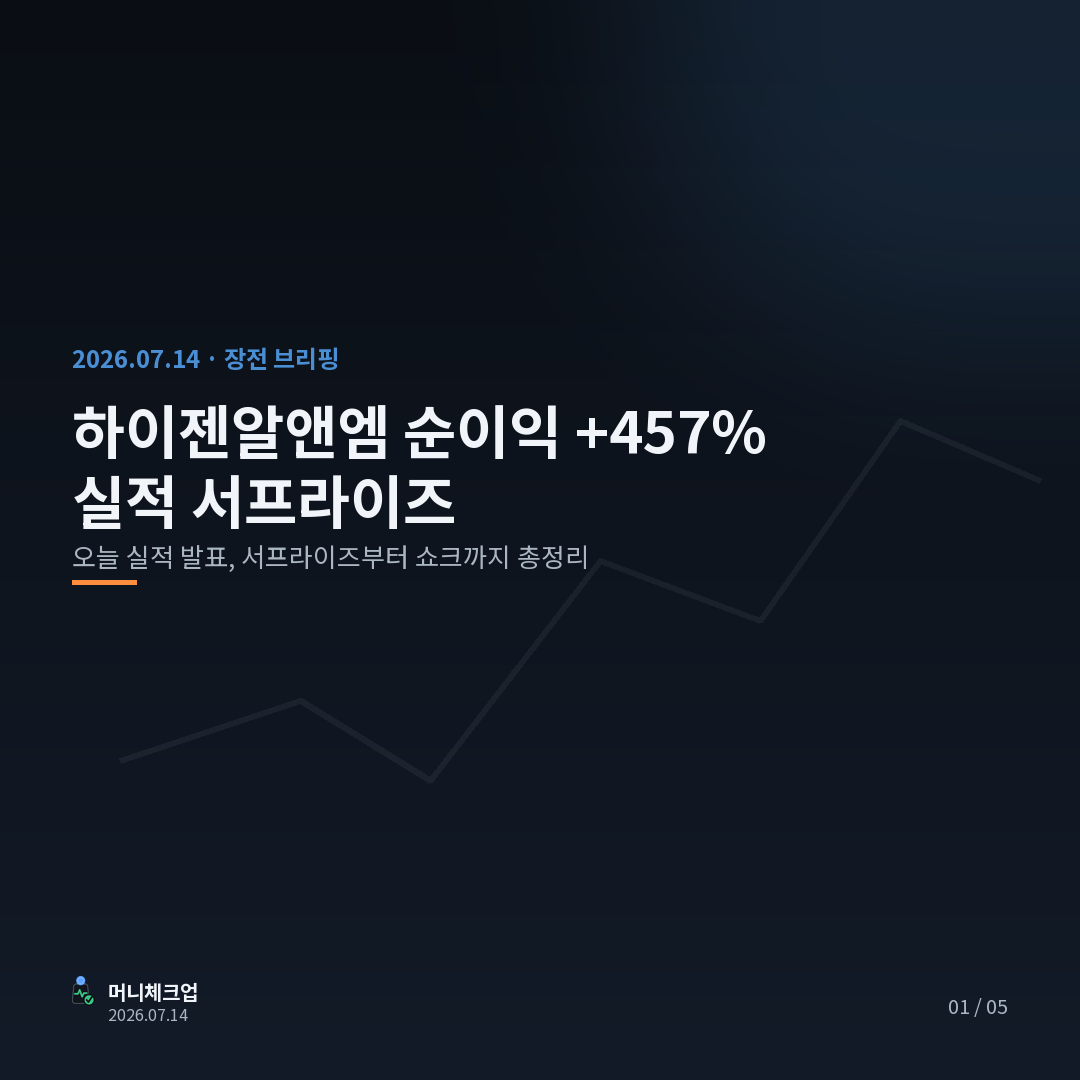
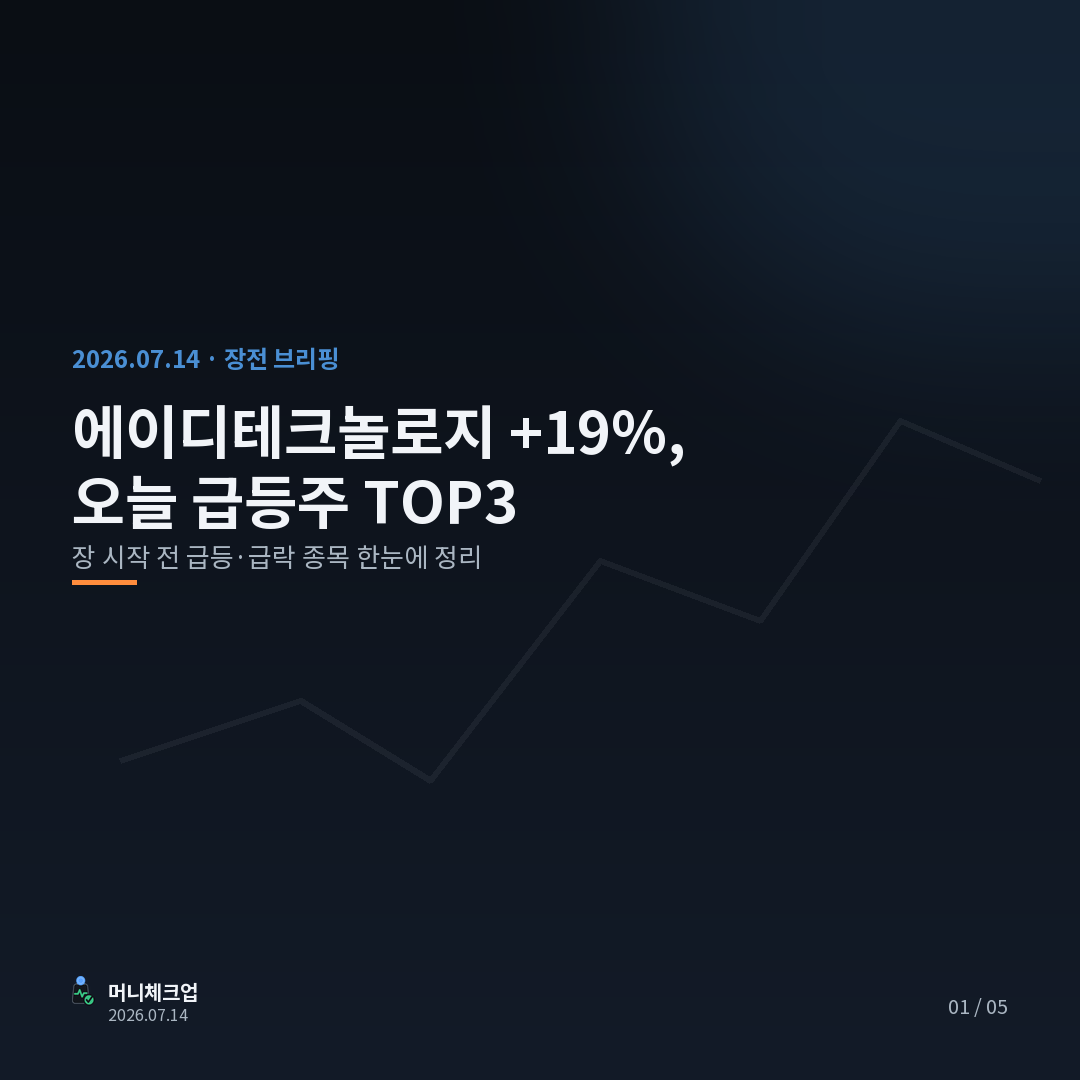
Add KOSPI/KOSDAQ/FX-move and rebound/correction cover headlines
Per feedback: earnings-based hooks can be stale (up to 30 days old now),
while an index or FX move is today's own news - worth featuring more
readily. Added:
- kospi_move / fx_move templates, gated on a minimum move size so
  ordinary days don't trigger them, with impact multipliers tuned so
  a real crash-level move can outrank even a big single-stock earnings
  surprise (which is now capped at 80 impact so one extreme % doesn't
  automatically dominate every day).
- rebound / correction templates: detect N+ consecutive down days
  flipping positive today (rebound) or N+ up days flipping negative
  today (correction), using new app.py::_kr_index_streak() (daily
  closes via market_indices.fetch_history).
- Also fixed a leftover "anomalies[:3]" cap in _blog_draft_data()'s
  return statement that was silently undoing the earlier fix to always
  show all high-severity (red) flags.

Changed region(s): [[0.0611, 0.3667, 0.7333, 0.55]]

diff --git a/card_templates.py b/card_templates.py
@@ -30,13 +30,16 @@ def _t_gainer_pct(data):
 
 def _t_earnings_extreme(data):
     """실적 중 순이익 증감률(ni_yoy)이 가장 극단적인(서프라이즈든 쇼크든) 1건을 헤드라인에.
-    +457% 같은 압도적인 숫자가 있는데 earnings_split(건수 요약)이 뽑혀서 묻히는 걸 방지."""
+    +457% 같은 압도적인 숫자가 있는데 earnings_split(건수 요약)이 뽑혀서 묻히는 걸 방지.
+    임팩트는 80에서 상한(실적은 최근 1개월 내 '과거' 공시라, 코스피 폭락처럼 '오늘'
+    일어난 시장 전체 이슈보다 과하게 세게 잡히면 안 돼서 — 퍼센트가 아무리 커도
+    개별종목 실적 하나가 시장 급락보다 항상 이기는 건 부자연스러움)."""
     cands = [e for e in data["earnings"] if e.get("ni_yoy") is not None]
     top = max(cands, key=lambda e: abs(e["ni_yoy"]))
     sign = "+" if top["ni_yoy"] >= 0 else ""
     word = "실적 서프라이즈" if top["ni_yoy"] >= 0 else "어닝쇼크"
     return ([f"{top['name']} 순이익 {sign}{top['ni_yoy']:.0f}%", word],
-            "오늘 실적 발표, 서프라이즈부터 쇼크까지 총정리", abs(top["ni_yoy"]))
+            "오늘 실적 발표, 서프라이즈부터 쇼크까지 총정리", min(abs(top["ni_yoy"]), 80))
 
 
 def _t_earnings_split(data):
@@ -68,6 +71,78 @@ def _t_us_market(data):
             "장 시작 전 5분, 미국장·환율 체크", 6)
 
 
+KOSPI_MOVE_MIN = 1.0   # 이 이상 움직여야 후보에 듦(평범한 ±0.수%는 아예 후보 제외)
+FX_MOVE_MIN = 0.5
+
+
+def _t_kospi_move(data):
+    """코스피/코스닥 당일 등락 — 실적(분기 전 데이터)보다 훨씬 시의성 있는 '오늘'
+    소식이라, 크게 흔들린 날엔 다른 템플릿보다 우선 뽑히도록 임팩트에 배율(18배)을
+    준다. _eligible()에서 KOSPI_MOVE_MIN 이상일 때만 후보로 들어오므로, 사소한
+    변동에는 아예 뽑히지 않고(다른 템플릿에 자리를 내줌) 진짜 급등락일 때만 경쟁."""
+    ix = data["us_indices"]
+    cands = [(ix[k]["name"], ix[k]["chg_pct"]) for k in ("kospi", "kosdaq")
+             if ix.get(k) and ix[k].get("chg_pct") is not None]
+    name, pct = max(cands, key=lambda c: abs(c[1]))
+    mood = "급등" if pct >= 0 else "급락"
+    sign = "+" if pct >= 0 else ""
+    return ([f"{name} 오늘 {sign}{pct:.1f}%", f"{mood}, 무슨 일이?"],
+            "오늘 국내 증시 흐름 한눈에 정리", abs(pct) * 30)
+
+
+def _t_fx_move(data):
+    """원달러 환율 급변 — 이것도 '오늘' 소식이라 실적류보다 우선순위를 높게(28배).
+    FX_MOVE_MIN 미만이면 애초에 후보로 안 들어옴."""
+    usd = data["us_indices"]["usdkrw"]
+    pct = usd["chg_pct"]
+    mood = "급등" if pct >= 0 else "급락"
+    sign = "+" if pct >= 0 else ""
+    return ([f"원달러 환율 오늘 {sign}{pct:.1f}%", mood],
+            f"{usd['price']:,.1f}원 — 오늘 환율·증시 체크", abs(pct) * 35)
+
+
+def _detect_trend(data):
+    """kr_trend(app.py::_kr_index_streak 결과)에서 '며칠 하락 끝에 반등' /
+    '상승 흐름 속 오늘 조정' 패턴을 찾는다. returns의 마지막 값이 오늘, 그 앞 4개가
+    최근 4거래일. 오늘이 그 앞 연속 흐름과 반대 방향이고 그 연속이 2일 이상이면 감지.
+    코스피·코스닥 둘 다 감지되면 연속일수가 더 긴 쪽을 우선. 없으면 None."""
+    best = None
+    for key in ("kospi", "kosdaq"):
+        t = (data.get("kr_trend") or {}).get(key)
+        if not t or len(t["returns"]) < 5:
+            continue
+        today = t["returns"][-1]
+        prior = t["returns"][:-1]
+        if today > 0:
+            streak, kind = 0, "rebound"
+        elif today < 0:
+            streak, kind = 0, "correction"
+        else:
+            continue
+        opposite = (lambda r: r < 0) if kind == "rebound" else (lambda r: r > 0)
+        for r in reversed(prior):
+            if opposite(r):
+                streak += 1
+            else:
+                break
+        if streak >= 2 and (best is None or streak > best[2]):
+            best = (t["name"], kind, streak, today)
+    return best
+
+
+def _t_rebound(data):
+    name, _kind, streak, today = data["_trend"]
+    sign = "+" if today >= 0 else ""
+    return ([f"{name} {streak}일 하락 끝에", f"오늘 {sign}{today:.1f}% 반등"],
+            "며칠간 눌렸던 지수, 드디어 반등하나", 10 + streak * 6)
+
+
+def _t_correction(data):
+    name, _kind, streak, today = data["_trend"]
+    return ([f"{name} {streak}일 연속 상승 후", f"오늘 {today:.1f}%, 조정 시작?"],
+            "상승장 속 첫 흔들림, 조정일까 숨고르기일까", 10 + streak * 6)
+
+
 def _t_five_things(data):
     return (["오늘 장 시작 전", "꼭 봐야 할 5가지"],
             "코스피·코스닥 실적·특징테마 한눈에 정리", 5)
@@ -86,6 +161,10 @@ TEMPLATES = [
     ("anomaly_count", ["anomalies"], _t_anomaly_count),
     ("theme_hot", ["themes"], _t_theme_hot),
     ("us_market", ["us_indices"], _t_us_market),
+    ("kospi_move", ["_kr_index"], _t_kospi_move),
+    ("fx_move", ["_fx"], _t_fx_move),
+    ("rebound", ["_rebound"], _t_rebound),
+    ("correction", ["_correction"], _t_correction),
     ("five_things", [], _t_five_things),
     ("dont_miss", [], _t_dont_miss),
 ]
@@ -110,6 +189,28 @@ def _eligible(tid, requires, data):
             if not any(e.get("ni_yoy") is not None for e in data["earnings"]):
                 return False
             continue
+        if req == "_kr_index":
+            ix = data.get("us_indices") or {}
+            moves = [abs(ix[k]["chg_pct"]) for k in ("kospi", "kosdaq")
+                     if ix.get(k) and ix[k].get("chg_pct") is not None]
+            if not moves or max(moves) < KOSPI_MOVE_MIN:
+                return False
+            continue
+        if req == "_fx":
+            ix = data.get("us_indices") or {}
+            usd = ix.get("usdkrw")
+            if not (usd and usd.get("chg_pct") is not None and usd.get("price")
+                    and abs(usd["chg_pct"]) >= FX_MOVE_MIN):
+                return False
+            continue
+        if req == "_rebound":
+            if not (data.get("_trend") and data["_trend"][1] == "rebound"):
+                return False
+            continue
+        if req == "_correction":
+            if not (data.get("_trend") and data["_trend"][1] == "correction"):
+                return False
+            continue
         if not data.get(req):
             return False
     return True
@@ -123,6 +224,7 @@ def pick_cover_headline(data, name_of, today_str):
     '형태'는 후보에서 제외해 로테이션을 유지한다."""
     data = dict(data)
     data["_name_of"] = name_of
+    data["_trend"] = _detect_trend(data)
 
     hist = _load_history()
     recent_ids = {h["template_id"] for h in hist if h["date"] >= _days_ago(today_str, NO_REPEAT_DAYS)}

diff --git a/app.py b/app.py
@@ -876,9 +876,11 @@ def _earning_tag(pct):
 
 
 def _overnight_us_indices():
-    """장전 브리핑/카드뉴스 공용: 간밤 미국증시(나스닥/S&P500)+원달러 원시 수치.
-    get_market_indices()는 백그라운드 캐시라 일회성 배치에선 빈 값이 나올 수 있어
-    동기 fetch_indices()를 직접 호출한다(야후 장애 시 조용히 생략). 못 가져오면 None."""
+    """장전 브리핑/카드뉴스 공용: 나스닥/S&P500/원달러 + 코스피/코스닥 당일 등락 원시 수치.
+    코스피·코스닥은 인스타 표지 헤드라인에서 '오늘 코스피 급락' 같은, 실적(분기 전 데이터)
+    보다 훨씬 시의성 있는 소재로 쓰려고 추가함. get_market_indices()는 백그라운드 캐시라
+    일회성 배치에선 빈 값이 나올 수 있어 동기 fetch_indices()를 직접 호출한다(야후 장애
+    시 조용히 생략). 못 가져오면 None."""
     try:
         import market_indices
         ix = market_indices.fetch_indices()
@@ -889,7 +891,27 @@ def _overnight_us_indices():
     nasdaq, sp500 = ix.get("nasdaq"), ix.get("sp500")
     if not (nasdaq or sp500):
         return None
-    return {"nasdaq": nasdaq, "sp500": sp500, "usdkrw": ix.get("usdkrw")}
+    return {"nasdaq": nasdaq, "sp500": sp500, "usdkrw": ix.get("usdkrw"),
+            "kospi": ix.get("kospi"), "kosdaq": ix.get("kosdaq")}
+
+
+def _kr_index_streak(key):
+    """코스피/코스닥의 최근 며칠 연속 등락 흐름 — '며칠 하락하다 오늘 반등?',
+    '상승장에서 오늘 조정?' 같은 카드 헤드라인용. 최근 6거래일 종가로 일별
+    등락률 5개를 계산해 반환(마지막 값이 오늘). 실패하면 None."""
+    try:
+        import market_indices
+        hist = market_indices.fetch_history(key, "1mo")
+    except Exception:
+        return None
+    pts = hist["points"] if hist else []
+    if len(pts) < 6:
+        return None
+    closes = [p["c"] for p in pts[-6:]]
+    rets = [(closes[i] / closes[i - 1] - 1) * 100 for i in range(1, len(closes)) if closes[i - 1]]
+    if len(rets) < 5:
+        return None
+    return {"name": hist["name"], "returns": rets}
 
 
 def _overnight_us_line():
@@ -1067,8 +1089,9 @@ def _blog_draft_data():
     return {
         "date": now, "is_holiday": False,
         "us_indices": _overnight_us_indices(),
+        "kr_trend": {"kospi": _kr_index_streak("kospi"), "kosdaq": _kr_index_streak("kosdaq")},
         "movers_date": movers_date, "gainers": gainers, "losers": losers,
-        "earnings": earnings, "anomalies": anomalies[:3], "themes": themes,
+        "earnings": earnings, "anomalies": anomalies, "themes": themes,
     }
 
 
